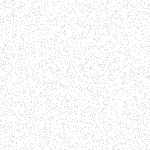
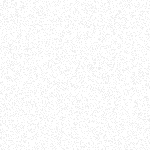
The header hands over instead of crossfading, and the grain steps back
From the second look on a device:

- Home's header no longer crossfades its fog and its bar over the same
  32 points — halfway, both were at half strength and the header went
  see-through. The bar comes up first over 48 points, on top of the
  fog, and only then does the fog let go. The bar is the page's own
  ground and grain rather than a navy slab, and it ends in a short
  shadow instead of a hard rule.
- The grain is a third softer: felt as a surface, not seen as a pattern.
- Raised panels are smoother than the ground they stand on: a
  semi-opaque fill in the raised colour lets a third of the grain
  through, so they read as lifted rather than as tinted windows.
- Tile titles take only the lines they need; the held second line left
  a blank gap between a short name and its genre.
- spokenName moves to lib/format and names games on the Plan too:
  "Start Breath of the Wild", and week bars that are not cut off at
  "The Legend of Zelda:…".

Claude-Session: https://claude.ai/code/session_01WDdXnq2h9x2p92e12ZDD4e

diff --git a/src/app/(tabs)/index.tsx b/src/app/(tabs)/index.tsx
@@ -587,9 +587,19 @@ export default function HomeScreen({
     // A home scroller that remounts starts at the top; so must the header.
     if (!scrollAware) scrollY.setValue(0);
   }, [scrollAware, scrollY]);
+  /*
+   * Two handovers in sequence, never a crossfade.
+   *
+   * The fog and the bar used to trade places over the same 32 points,
+   * so halfway through both were at half strength and the header went
+   * see-through — the stutter that made the change feel unfinished. The
+   * bar now comes up first, over a longer run, on top of the fog; only
+   * once it is whole does the fog underneath let go, and nothing is
+   * ever uncovered.
+   */
   const solidAt =
     stage.length > 0 ? Math.max(stageHeight - headerHeight, 1) : SPACING.xl;
-  const solidFrom = Math.max(solidAt - SPACING.xl, 0);
+  const solidFrom = Math.max(solidAt - SPACING.xxl, 0);
   const solid = scrollAware
     ? scrollY.interpolate({
         inputRange: [solidFrom, solidAt],
@@ -599,7 +609,7 @@ export default function HomeScreen({
     : 0;
   const fog = scrollAware
     ? scrollY.interpolate({
-        inputRange: [solidFrom, solidAt],
+        inputRange: [solidAt, solidAt + SPACING.md],
         outputRange: [1, 0],
         extrapolate: 'clamp',
       })
@@ -1181,7 +1191,17 @@ export default function HomeScreen({
               },
             ]}
             pointerEvents="none"
-          />
+          >
+            {/* The page's own grain, so the bar reads as the page
+                continuing over the shelves rather than a slab laid on
+                them; and under it a short shadow instead of a rule, so
+                what slides beneath goes under an edge, not a cut. */}
+            <Textured fill />
+            <LinearGradient
+              colors={[alpha(COLORS.ink, 0.28), alpha(COLORS.ink, 0)]}
+              style={styles.headerSolidShade}
+            />
+          </Animated.View>
           {/* Search is a mode, not a field wedged between the wordmark
               and the icons: tapping the glass hands the whole row over to
               the query, and dismissing gives the row back. */}
@@ -1414,15 +1434,27 @@ const styles = StyleSheet.create({
     paddingBottom: SPACING.xl,
   },
   headerFloatSearch: { paddingBottom: SPACING.sm },
-  /** The header once the stage has gone: navy, a hairline, row height. */
+  /**
+   * The header once the stage has gone: the page's own ground at row
+   * height, not navy. Navy was a band a shade darker than everything
+   * under it — a slab across the top of the screen that looked stuck
+   * on rather than part of the page.
+   */
   headerSolid: {
     position: 'absolute',
     top: 0,
     left: 0,
     right: 0,
-    backgroundColor: COLORS.navy,
+    backgroundColor: alpha(COLORS.darkGrey, 0.96),
     borderBottomWidth: StyleSheet.hairlineWidth,
-    borderBottomColor: COLORS.strokeStrong,
+    borderBottomColor: COLORS.stroke,
+  },
+  headerSolidShade: {
+    position: 'absolute',
+    top: '100%',
+    left: 0,
+    right: 0,
+    height: SPACING.md,
   },
   brand: {
     flexDirection: 'row',

diff --git a/src/styles/theme.ts b/src/styles/theme.ts
@@ -1,6 +1,6 @@
 import { Platform, type ViewStyle } from 'react-native';
 
-import { COLORS } from './colors';
+import { alpha, COLORS } from './colors';
 
 /** Design tokens. Prefer these over inline magic numbers. */
 
@@ -237,10 +237,22 @@ const SHEEN =
  * whole: spread one and a surface is lit, edged and lifted the same way
  * as every other surface of its kind.
  */
+/**
+ * A raised surface's fill: the colour `raised` makes on the page ground
+ * (darkGrey lifted three per cent toward white), at two thirds opacity.
+ *
+ * `raised` alone is three per cent white and nothing else, so a panel
+ * carried the page's grain at full strength and read as a tinted window
+ * onto the floor. A surface nearer the light is smoother than the ground
+ * it stands on; this lets a third of the grain through — enough to stay
+ * the same material, quiet enough to read as lifted.
+ */
+const RAISED_FILL = alpha('#394356', 0.66);
+
 export const MATERIAL = {
   /** A panel on the page: the Plan's week, the library's backlog. */
   plate: {
-    backgroundColor: COLORS.raised,
+    backgroundColor: RAISED_FILL,
     borderWidth: 1,
     borderColor: COLORS.stroke,
     boxShadow: `${EDGE_LIGHT}, ${SHADOW.card.boxShadow}`,
@@ -255,7 +267,7 @@ export const MATERIAL = {
    * smudges, not a list.
    */
   row: {
-    backgroundColor: COLORS.raised,
+    backgroundColor: RAISED_FILL,
     borderWidth: 1,
     borderColor: COLORS.stroke,
     boxShadow: `${EDGE_LIGHT}, 0 1px 2px rgba(9,12,19,0.28)`,

diff --git a/src/lib/homeFeed.ts b/src/lib/homeFeed.ts
@@ -1,6 +1,7 @@
 import type { Game } from '@/api/types';
 import type { LibraryEntry } from './library';
 import type { Section } from '@/constants/categories';
+import { spokenName } from './format';
 
 /**
  * What the home page shows today.
@@ -139,28 +140,14 @@ function pending(entries: LibraryEntry[]): LibraryEntry[] {
 }
 
 /**
- * A game's name as a person says it in a sentence.
- *
- * "More action, like The Legend of Zelda: Breath of the Wild" wrapped
- * a row's title onto two lines under its own eyebrow and a chapter
- * heading — four lines of heading over one row of tiles. Nobody says
- * the franchise half aloud: after a colon, the subtitle is the name,
- * as long as it is a name (two words or more) and not a number.
- */
-export function spokenName(name: string): string {
-  const at = name.indexOf(': ');
-  if (at < 0) return name;
-  const rest = name.slice(at + 2).trim();
-  return rest.split(/\s+/).length >= 2 ? rest : name;
-}
-
-/**
  * "Because you saved Hades" — the genre of the last thing they saved.
  *
  * Deliberately the most recent rather than the most common: a backlog
  * accumulated over years describes who someone used to be, and the game
  * saved on Tuesday describes what they are in the mood for.
  */
+export { spokenName };
+
 export function becauseYouSaved(entries: LibraryEntry[]): PersonalShelf | null {
   for (const entry of pending(entries)) {
     const genre = entry.game.genres?.[0];

diff --git a/src/components/WeekView.tsx b/src/components/WeekView.tsx
@@ -9,6 +9,7 @@ import { planColour } from '@/lib/planColours';
 import { REMINDER_LEAD_MINUTES, scheduleEvenings } from '@/lib/reminders';
 import type { ScheduledItem } from '@/lib/scheduler';
 import { formatHours } from '@/lib/duration';
+import { spokenName } from '@/lib/format';
 import { celebrate } from '@/lib/haptics';
 import { eveningHours, eveningLabel, planWeek } from '@/lib/week';
 import { COLORS } from '@/styles/colors';
@@ -282,7 +283,7 @@ export function WeekView({
                           maxFontSizeMultiplier={CHART_SCALE}
                         >
                           {game.named
-                            ? `${game.name} · ${formatHours(game.hours)}`
+                            ? `${spokenName(game.name)} · ${formatHours(game.hours)}`
                             : formatHours(game.hours)}
                         </Text>
                       </View>

diff --git a/src/lib/format.ts b/src/lib/format.ts
@@ -33,3 +33,19 @@ export function calendarDate(
 export function countOf(n: number, noun: string, plural = `${noun}s`): string {
   return `${n.toLocaleString()} ${n === 1 ? noun : plural}`;
 }
+
+/**
+ * A game's name as a person says it in a sentence.
+ *
+ * "More action, like The Legend of Zelda: Breath of the Wild" wrapped
+ * a row's title onto two lines under its own eyebrow and a chapter
+ * heading — four lines of heading over one row of tiles. Nobody says
+ * the franchise half aloud: after a colon, the subtitle is the name,
+ * as long as it is a name (two words or more) and not a number.
+ */
+export function spokenName(name: string): string {
+  const at = name.indexOf(': ');
+  if (at < 0) return name;
+  const rest = name.slice(at + 2).trim();
+  return rest.split(/\s+/).length >= 2 ? rest : name;
+}

diff --git a/src/app/(tabs)/plan.tsx b/src/app/(tabs)/plan.tsx
@@ -62,6 +62,7 @@ import {
   innerRadius,
 } from '@/styles/theme';
 import { FONT_SCALE, OVER_IMAGE, TYPE, WORDMARK } from '@/styles/typography';
+import { spokenName } from '@/lib/format';
 
 const WEEK_MS = 7 * 24 * 60 * 60 * 1000;
 
@@ -987,7 +988,7 @@ export default function PlanScreen() {
                             numberOfLines={2}
                             maxFontSizeMultiplier={FONT_SCALE.display}
                           >
-                            {tonightVerb} {tonightPick.name}
+                            {tonightVerb} {spokenName(tonightPick.name)}
                           </Text>
                           <Text style={styles.tonightWhy}>
                             {tonight.finishable

diff --git a/src/components/GameTile.tsx b/src/components/GameTile.tsx
@@ -531,12 +531,13 @@ const styles = StyleSheet.create({
     ...TYPE.labelSmall,
     color: COLORS.lightGrey,
   },
+  // Two lines at most, and only the lines it needs. Holding two open
+  // kept the facts on one baseline across a row, but under every short
+  // name it left a blank line between the title and its own genre —
+  // on a phone the gap read as something missing, not as alignment.
   title: {
     ...TYPE.labelSmall,
     color: COLORS.lightGrey,
-    // Two lines held open, so a row of long and short names keeps one
-    // baseline for the fact beneath them.
-    minHeight: TYPE.labelSmall.lineHeight * 2,
   },
   titleHovered: { color: COLORS.white },
   meta: {
